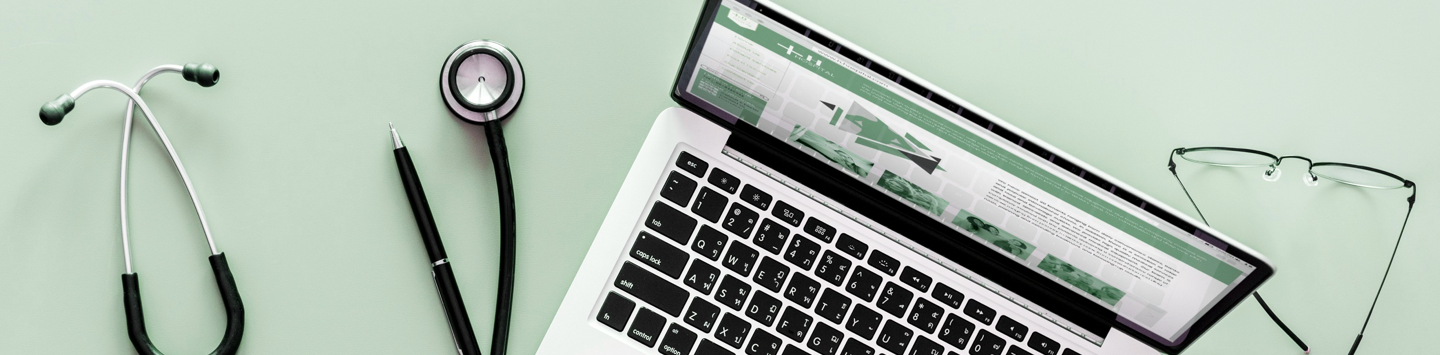
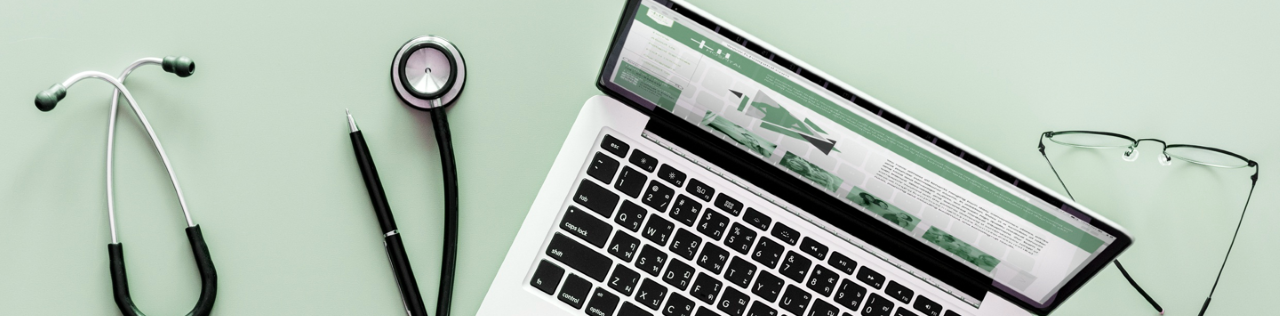
تعديل صور بالصفحة الرئيسية

diff --git a/includes/Header.php b/includes/Header.php
@@ -30,11 +30,14 @@ session_start();
 
         <header>
             <!--Logo of the website-->
-
-            <div class="container-fluid" style="background-image:url(images/header-2.png); height: 360px">
+            <div class="container-fluid" style="background-image:url(images/header-2.png); background-repeat:no-repeat;  background-size: cover;">
+                <br>
                 <br>
                 <a href="index.php">
-                    <img src="images/logo.png" style="width: 270px; height: 90px" alt="جمعية السرطان السعودية" id="logo"></a>
+                    <img src="images/logo.png" style="width: 250px; height: 90px" alt="جمعية السرطان السعودية" id="logo"></a>
+                <br>
+                <br>
+                <br>
             </div>
 
             <!--Navigation menu-->
@@ -72,9 +75,9 @@ session_start();
                                     ?> 
                                     <li <?php echo ($filename == 'admin-profile') ? 'class="active"' : ''; ?>>
                                         <a href="admin-profile.php"><span class="glyphicon glyphicon-user"></span> <span><?php
-                            $username = $_SESSION["username"];
-                            echo $username;
-                                    ?>  </span></a></li>
+                                                $username = $_SESSION["username"];
+                                                echo $username;
+                                                ?>  </span></a></li>
                                     <li> <a href="logout.php"><span class="glyphicon glyphicon-log-out"></span> تسجيل الخروج</a></li>
 
                                     <?php
@@ -83,9 +86,9 @@ session_start();
                                     ?>
                                     <li <?php echo ($filename == 'volunteerprofile') ? 'class="active"' : ''; ?>>
                                         <a href="volunteerprofile.php"><span class="glyphicon glyphicon-user"></span> <span><?php
-                            $username = $_SESSION["username"];
-                            echo $username;
-                                    ?>  </span></a></li>
+                                                $username = $_SESSION["username"];
+                                                echo $username;
+                                                ?>  </span></a></li>
                                     <li> <a href="logout.php"><span class="glyphicon glyphicon-log-out"></span> تسجيل الخروج</a></li>
 
                                     <?php

diff --git a/index.php b/index.php
@@ -93,7 +93,7 @@ include("includes/Header.php"); // the header of the page
                 <div class="carousel-inner" role="listbox">
 
                     <div class="item active">
-                        <img src="images/img4.jpg" />
+                        <img src="images/img3.jpg" />
 
                     </div>
                     <div class="item">
